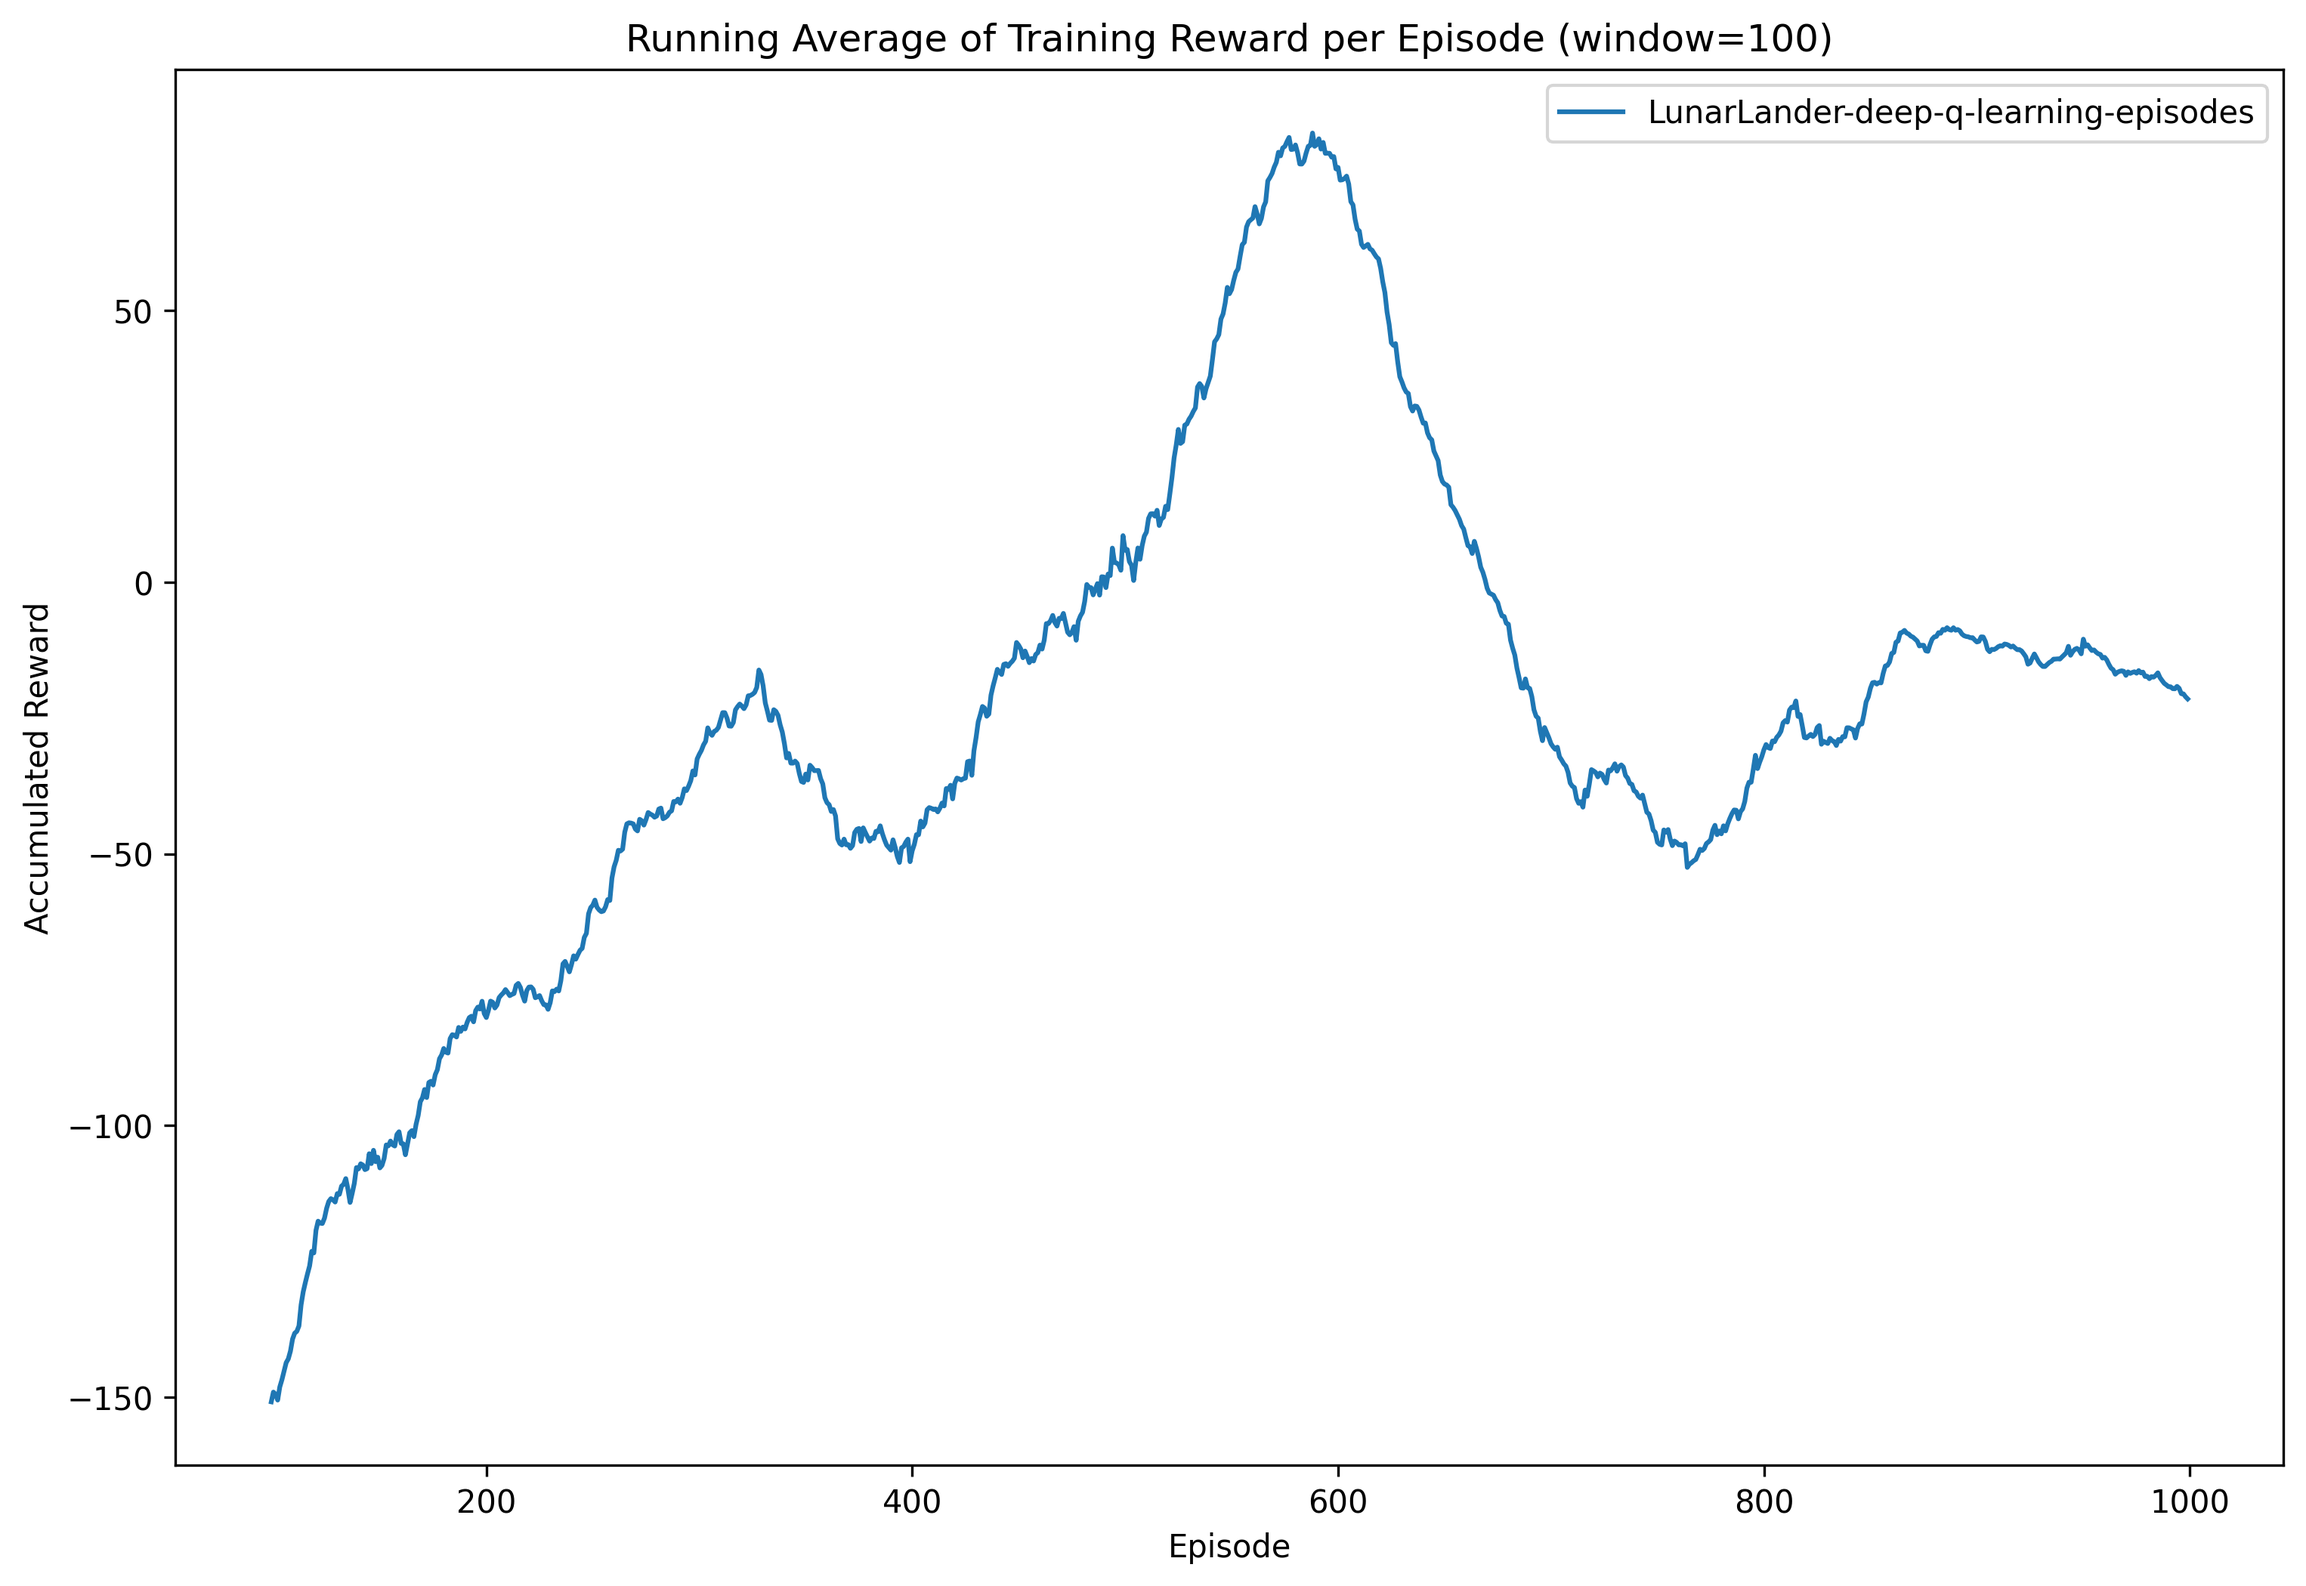
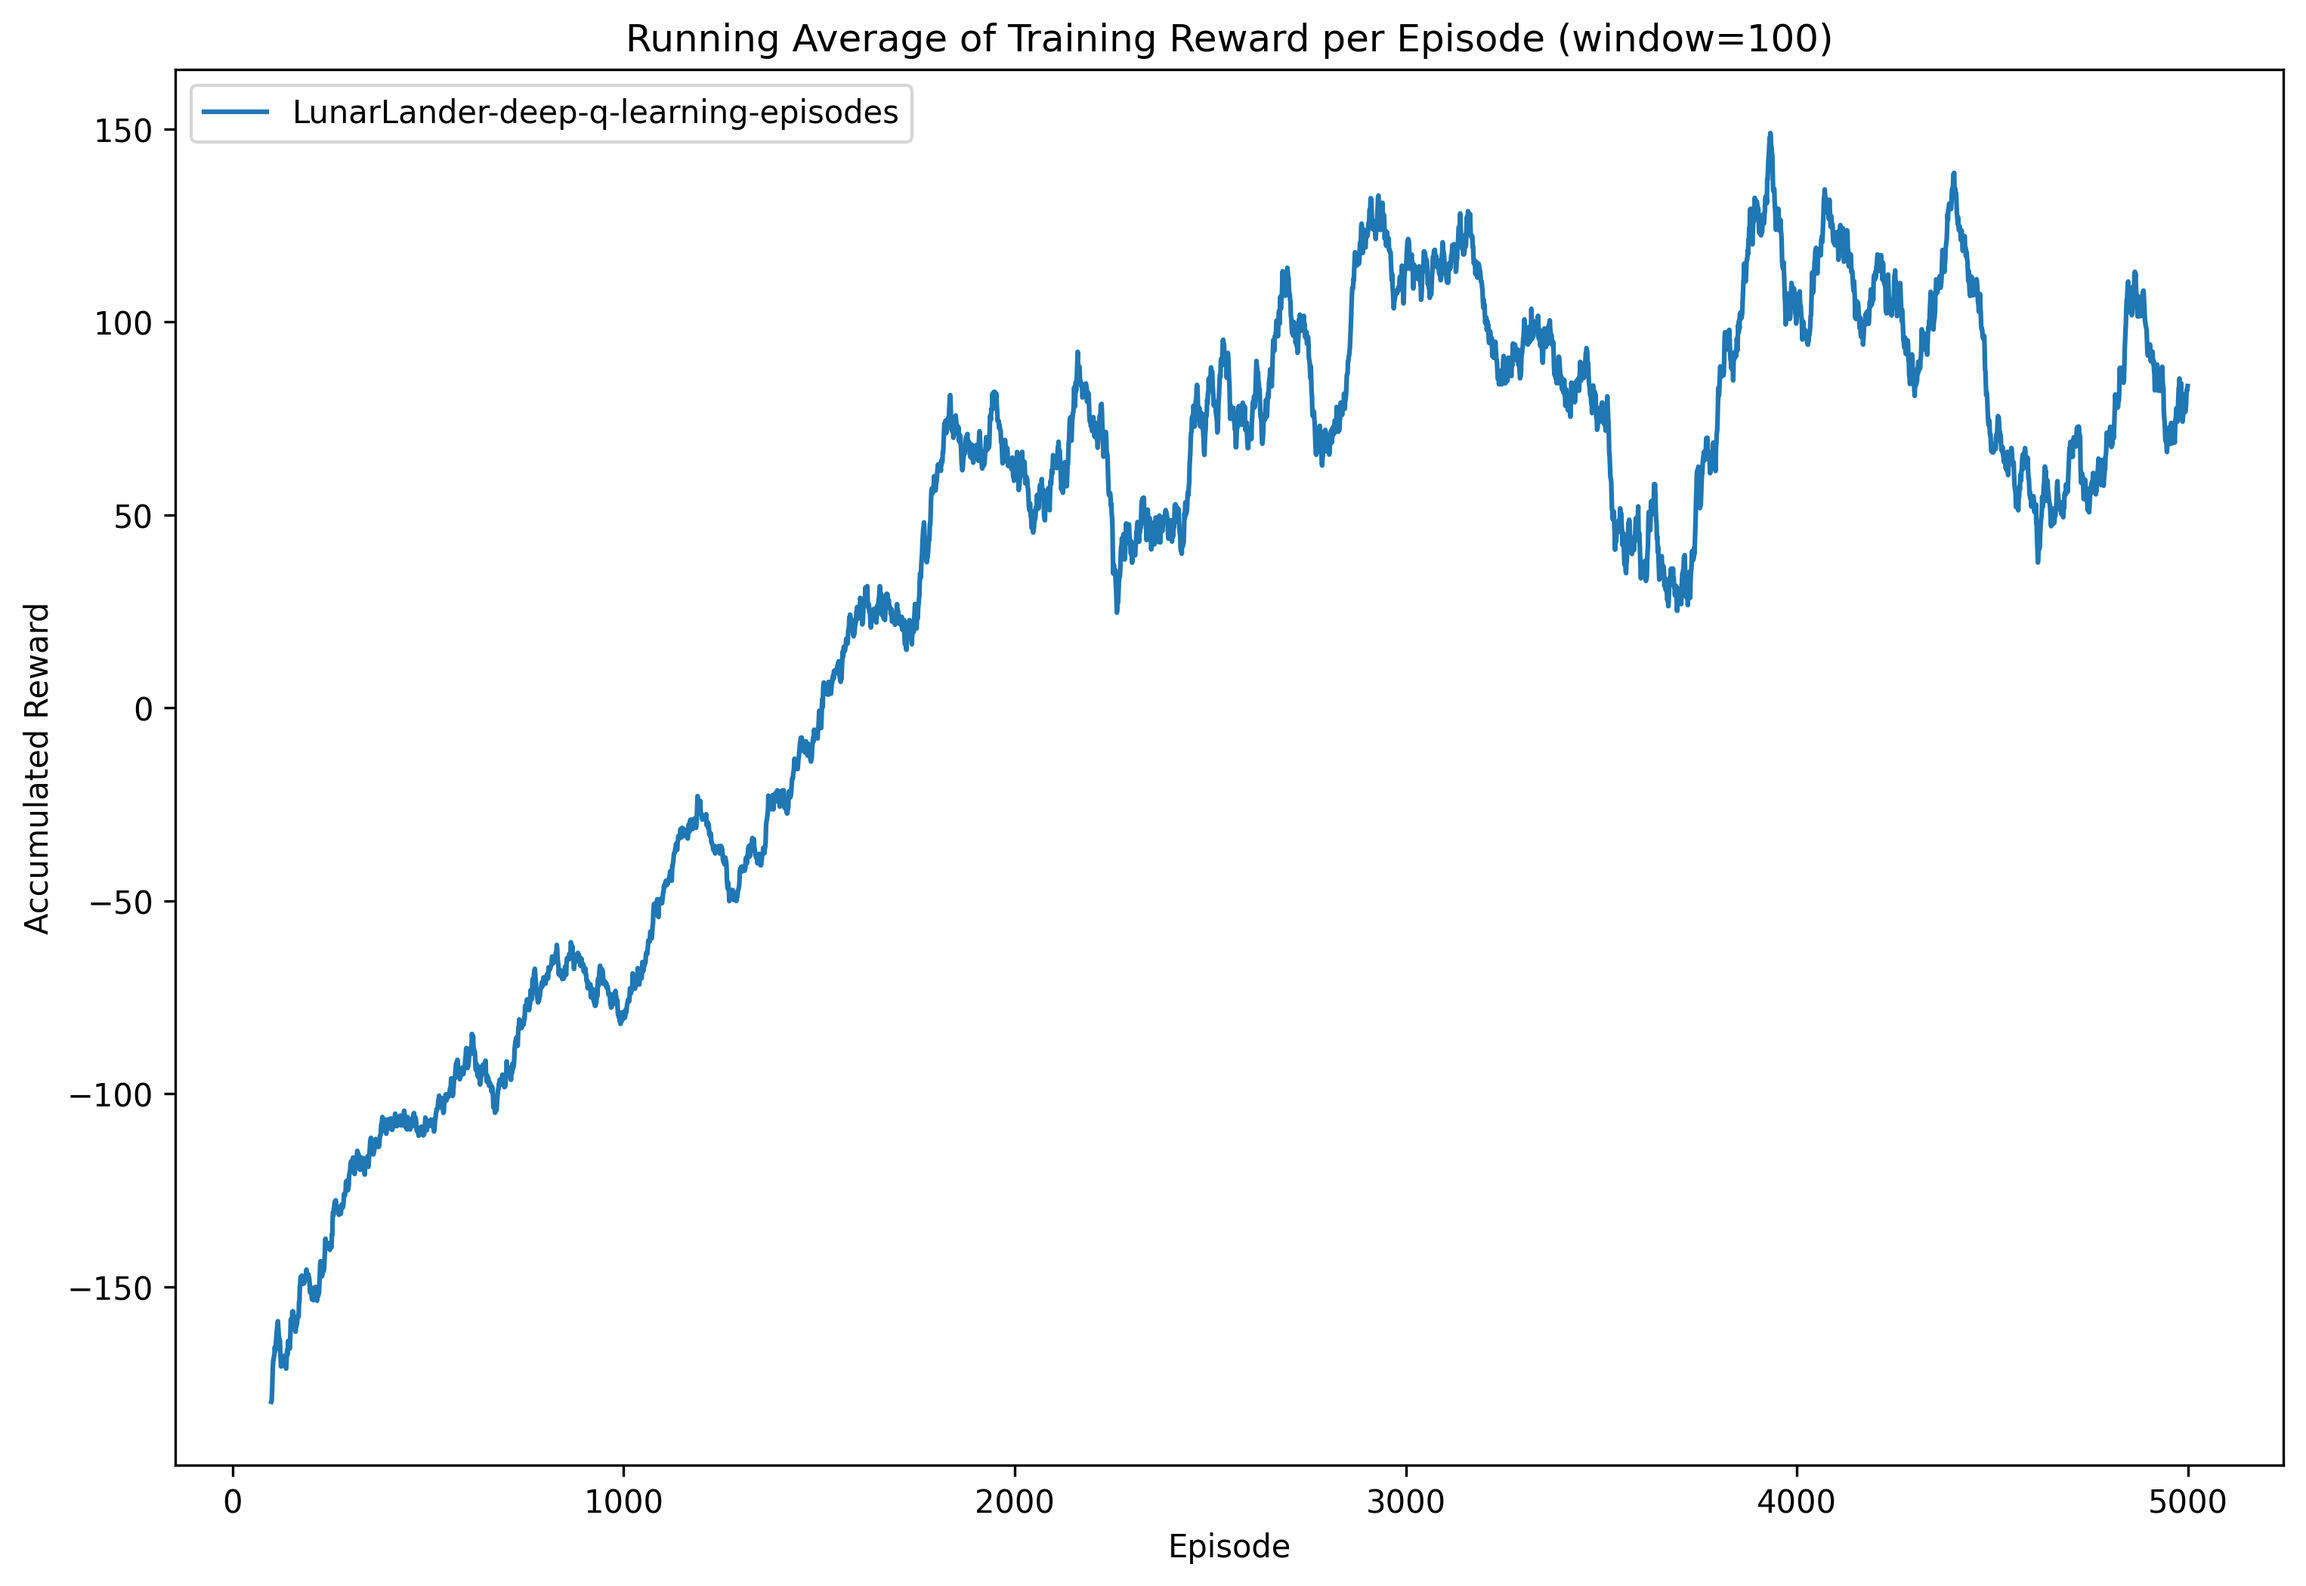
lunarlander more episodes

diff --git a/simulation.py b/simulation.py
@@ -8,17 +8,17 @@ EXPERIMENT_NAME = "LunarLander-deep-q-learning"
 ENV_NAME = "LunarLander-v3"
 ENV_PARAMS = {'render_mode': "rgb_array"}
 LEARNING_METHOD = "deep-q-learning"
-TRAINING_EPISODES = 2000
+TRAINING_EPISODES = 5000
 TESTING_EPISODES = 100
-MAX_STEPS = 500
+MAX_STEPS = 1000
 LEARNING_RATE = 0.001
 INITIAL_EPSILON = 1.0
-EPSILON_DECAY = 0.996
+EPSILON_DECAY = 0.999
 FINAL_EPSILON = 0.01
 DISCOUNT_FACTOR = 0.99
-MEMORY_LENGTH = 1000000
+MEMORY_LENGTH = 100000
 BATCH_SIZE = 128
-STEPS_PER_UPDATE = 100
+STEPS_PER_UPDATE = 50
 env = gym.make(ENV_NAME, **ENV_PARAMS).env
 env = TimeLimit(env, max_episode_steps=MAX_STEPS)
 env = RecordVideo(env, video_folder="videos", episode_trigger=lambda t: t % int(TRAINING_EPISODES/10) == 0)
